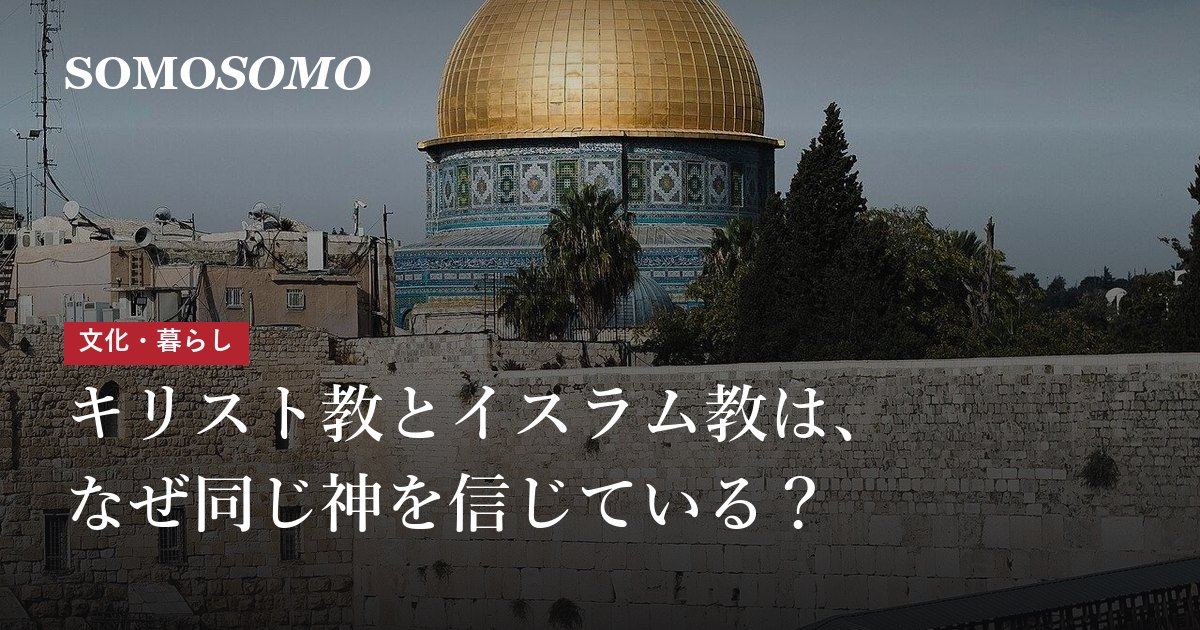
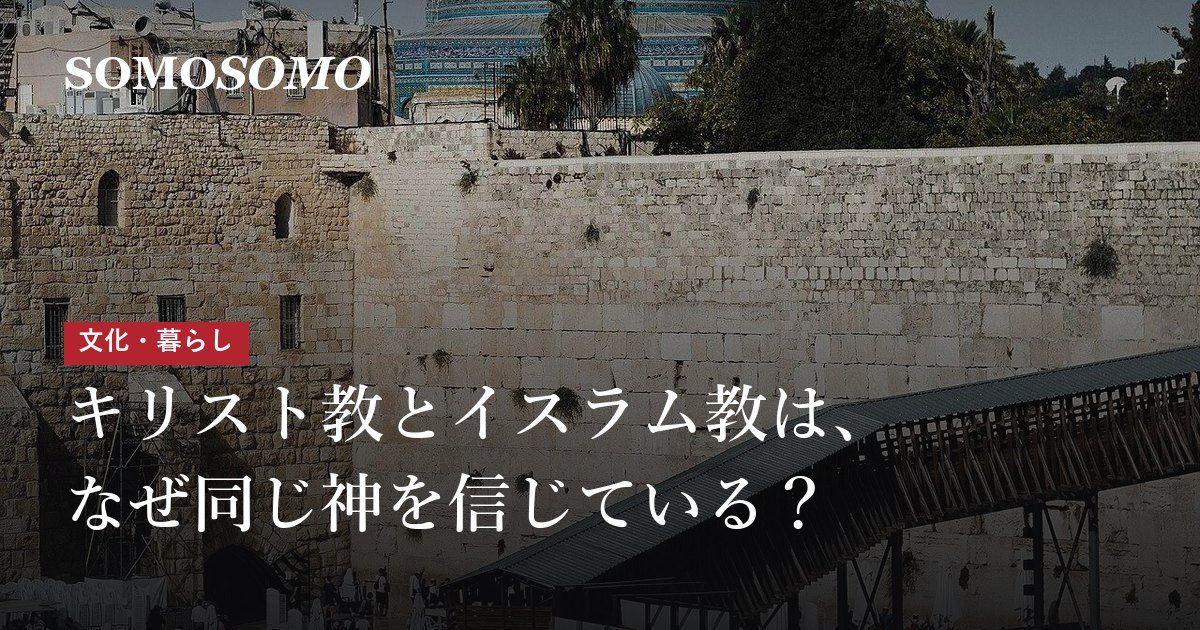
Update site

diff --git a/assets/site.js b/assets/site.js
@@ -39,6 +39,13 @@
   function feature(id) { return F.filter(function (f) { return f.id === id; })[0]; }
   function liveF(f) { return f.articles.some(function (s) { var t = topic(s); return t && t.status === "published"; }); }
   function deepsFrom(slug) { return F.filter(function (f) { return f.kind === "deep" && f.roots && f.roots.indexOf(slug) >= 0 && liveF(f); }); }
+  /* ホーム画面に追加（PWA） */
+  var installPrompt = null;
+  function installed() { return (window.matchMedia && matchMedia("(display-mode: standalone)").matches) || navigator.standalone === true; }
+  window.addEventListener("beforeinstallprompt", function (e) { e.preventDefault(); installPrompt = e; });
+  if ("serviceWorker" in navigator && location.protocol === "https:") {
+    window.addEventListener("load", function () { navigator.serviceWorker.register(u("sw.js")).catch(function () {}); });
+  }
   function featuresWith(slug) { return F.filter(function (f) { return f.articles.indexOf(slug) >= 0; }); }
   function pad(n) { return (n < 10 ? "0" : "") + n; }
   function u(path) { return ROOT + path; }
@@ -145,10 +152,12 @@
       '<a class="item"' + st() + ' href="' + u("categories.html") + '"><span class="item-no">02</span>カテゴリ<span class="item-en">Category</span></a>' +
       '<div class="sub"' + st() + ">" + Z.categories.map(function (c) { return '<a href="' + catUrl(c.id) + '">' + esc(c.name) + "</a>"; }).join("") + "</div>" +
       '<a class="item"' + st() + ' href="' + u("features.html") + '"><span class="item-no">03</span>特集<span class="item-en">Special</span></a>' +
-      '<div class="sub"' + st() + ">" + F.map(function (f) { return '<a href="' + featureUrl(f.id) + '">' + esc(f.title) + "</a>"; }).join("") + "</div>" +
+      '<div class="sub"' + st() + ">" + F.filter(function (f) { return f.kind !== "deep" || liveF(f); }).map(function (f) { return '<a href="' + featureUrl(f.id) + '">' + esc(f.title) + "</a>"; }).join("") + "</div>" +
       '<a class="item"' + st() + ' href="' + u("search.html") + '"><span class="item-no">04</span>検索<span class="item-en">Search</span></a>' +
       "<h3" + st() + '>人気のキーワード</h3><div class="chips"' + st() + ">" + Z.keywords.map(function (k, i) { return '<a href="' + u("search.html#k" + i) + '">' + esc(k) + "</a>"; }).join("") + "</div>" +
-      '<p class="menu-foot"' + st() + '><a href="' + u("credits.html") + '">写真クレジット</a></p></div>';
+      '<p class="menu-foot"' + st() + '><a href="' + u("credits.html") + '">写真クレジット</a>' +
+      (installed() ? "" : '<button type="button" class="a2hs" id="a2hs">ホーム画面に追加</button>') + "</p>" +
+      '<p class="a2hs-help" id="a2hs-help" hidden></p></div>';
     document.body.appendChild(menu);
     var openBtn = document.getElementById("menu-open");
     function setMenu(open) {
@@ -160,6 +169,14 @@
     }
     openBtn.addEventListener("click", function () { setMenu(true); });
     document.getElementById("menu-close").addEventListener("click", function () { setMenu(false); });
+    /* ホーム画面に追加：Android などは端末の案内を出し、iPhone は手順を見せる */
+    var a2 = document.getElementById("a2hs");
+    if (a2) a2.addEventListener("click", function () {
+      if (installPrompt) { installPrompt.prompt(); installPrompt = null; return; }
+      var h = document.getElementById("a2hs-help"), ios = /iPhone|iPad|iPod/.test(navigator.userAgent);
+      h.textContent = ios ? "Safari の下の共有ボタン（四角から上向きの矢印）を押し、「ホーム画面に追加」を選んでください。" : "ブラウザのメニュー（︙）から「ホーム画面に追加」または「アプリをインストール」を選んでください。";
+      h.hidden = false;
+    });
     document.addEventListener("keydown", function (e) { if (e.key === "Escape" && !menu.hidden) setMenu(false); });
     menu.addEventListener("click", function (e) { if (e.target.closest("a")) { menu.hidden = true; menu.classList.remove("is-open"); document.documentElement.style.overflow = ""; } });
 

diff --git a/assets/site.css b/assets/site.css
@@ -975,3 +975,7 @@ img.kb { animation: kb 18s ease-out both; }
 }
 /* まばらな並びの写真は枠の比率に合わせる（写真の元の高さで枠が伸びないように） */
 .sc .thumb img { position: absolute; inset: 0; }
+
+/* ホーム画面に追加（2026-11-28） */
+.menu-foot .a2hs { margin-left: 16px; padding: 6px 14px; border: 1px solid currentColor; border-radius: 999px; background: none; color: inherit; font: inherit; font-size: 13px; cursor: pointer; }
+.a2hs-help { margin: 10px 0 0; font-size: 13px; line-height: 1.7; opacity: .85; }

diff --git a/sw.js b/sw.js
@@ -1,0 +1,8 @@
+/* SOMOSOMO：ホーム画面に追加（インストール）できるようにするための service worker。
+   中身はためこまず、いつもネットから取る（更新が古いまま残らないように）。 */
+self.addEventListener("install", function () { self.skipWaiting(); });
+self.addEventListener("activate", function (e) { e.waitUntil(self.clients.claim()); });
+self.addEventListener("fetch", function (e) {
+  if (e.request.method !== "GET") return;
+  e.respondWith(fetch(e.request));
+});
